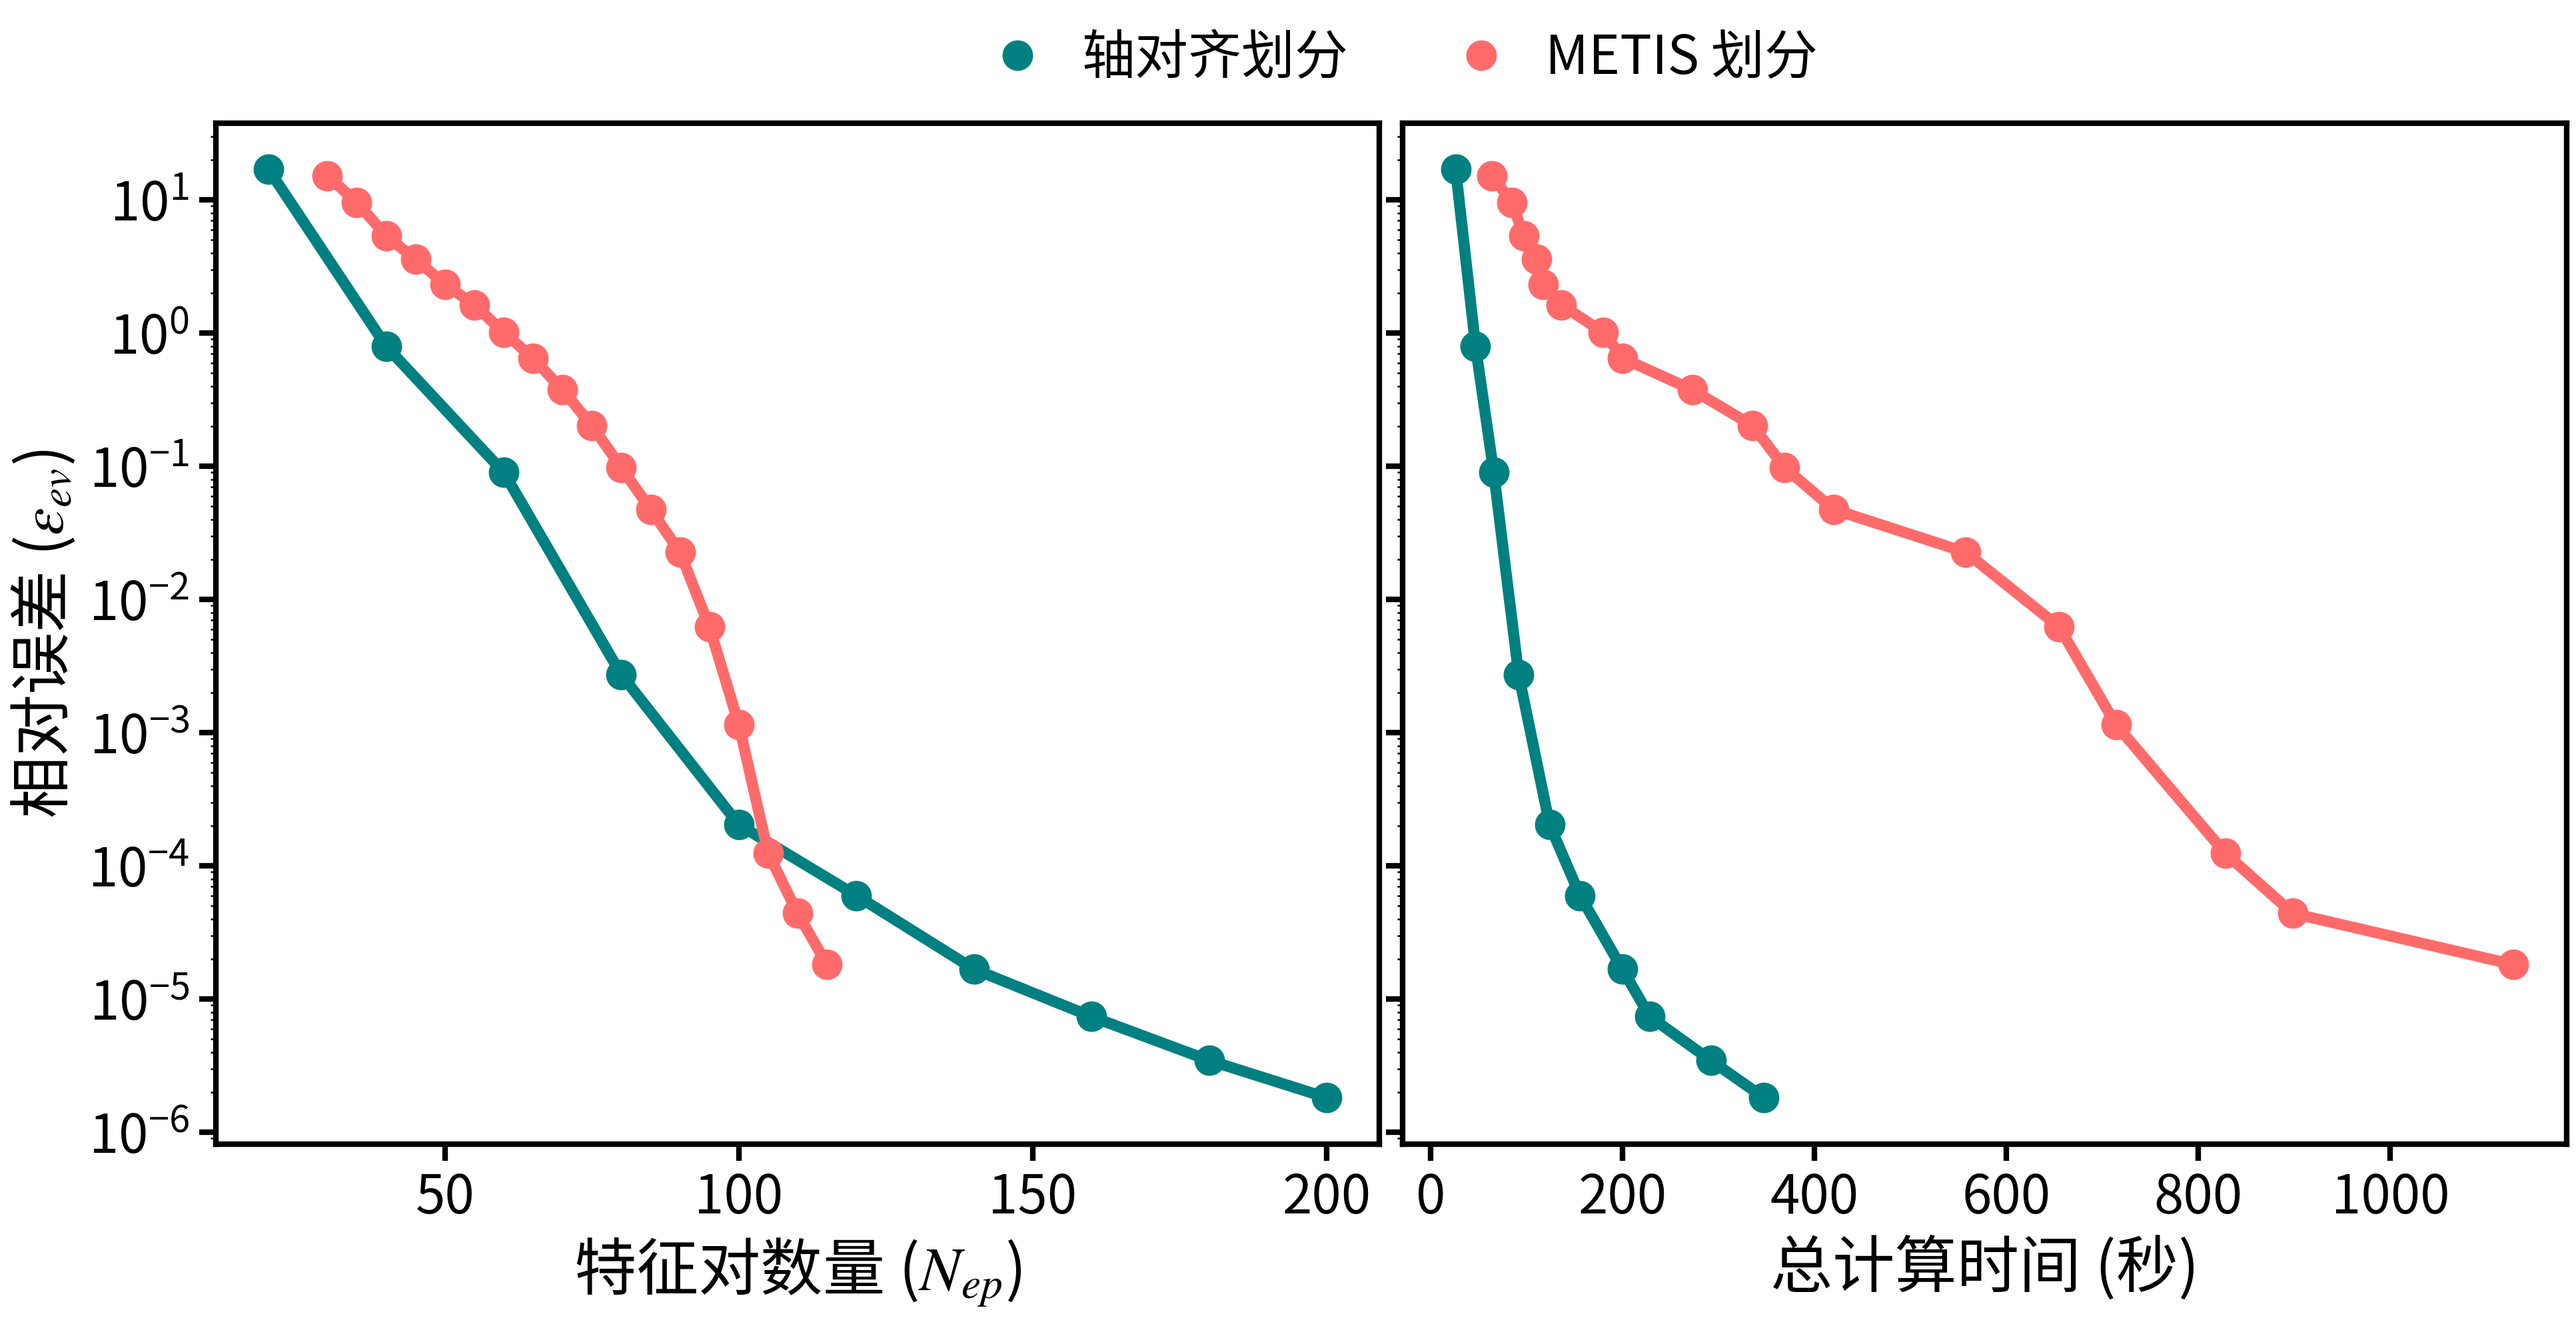
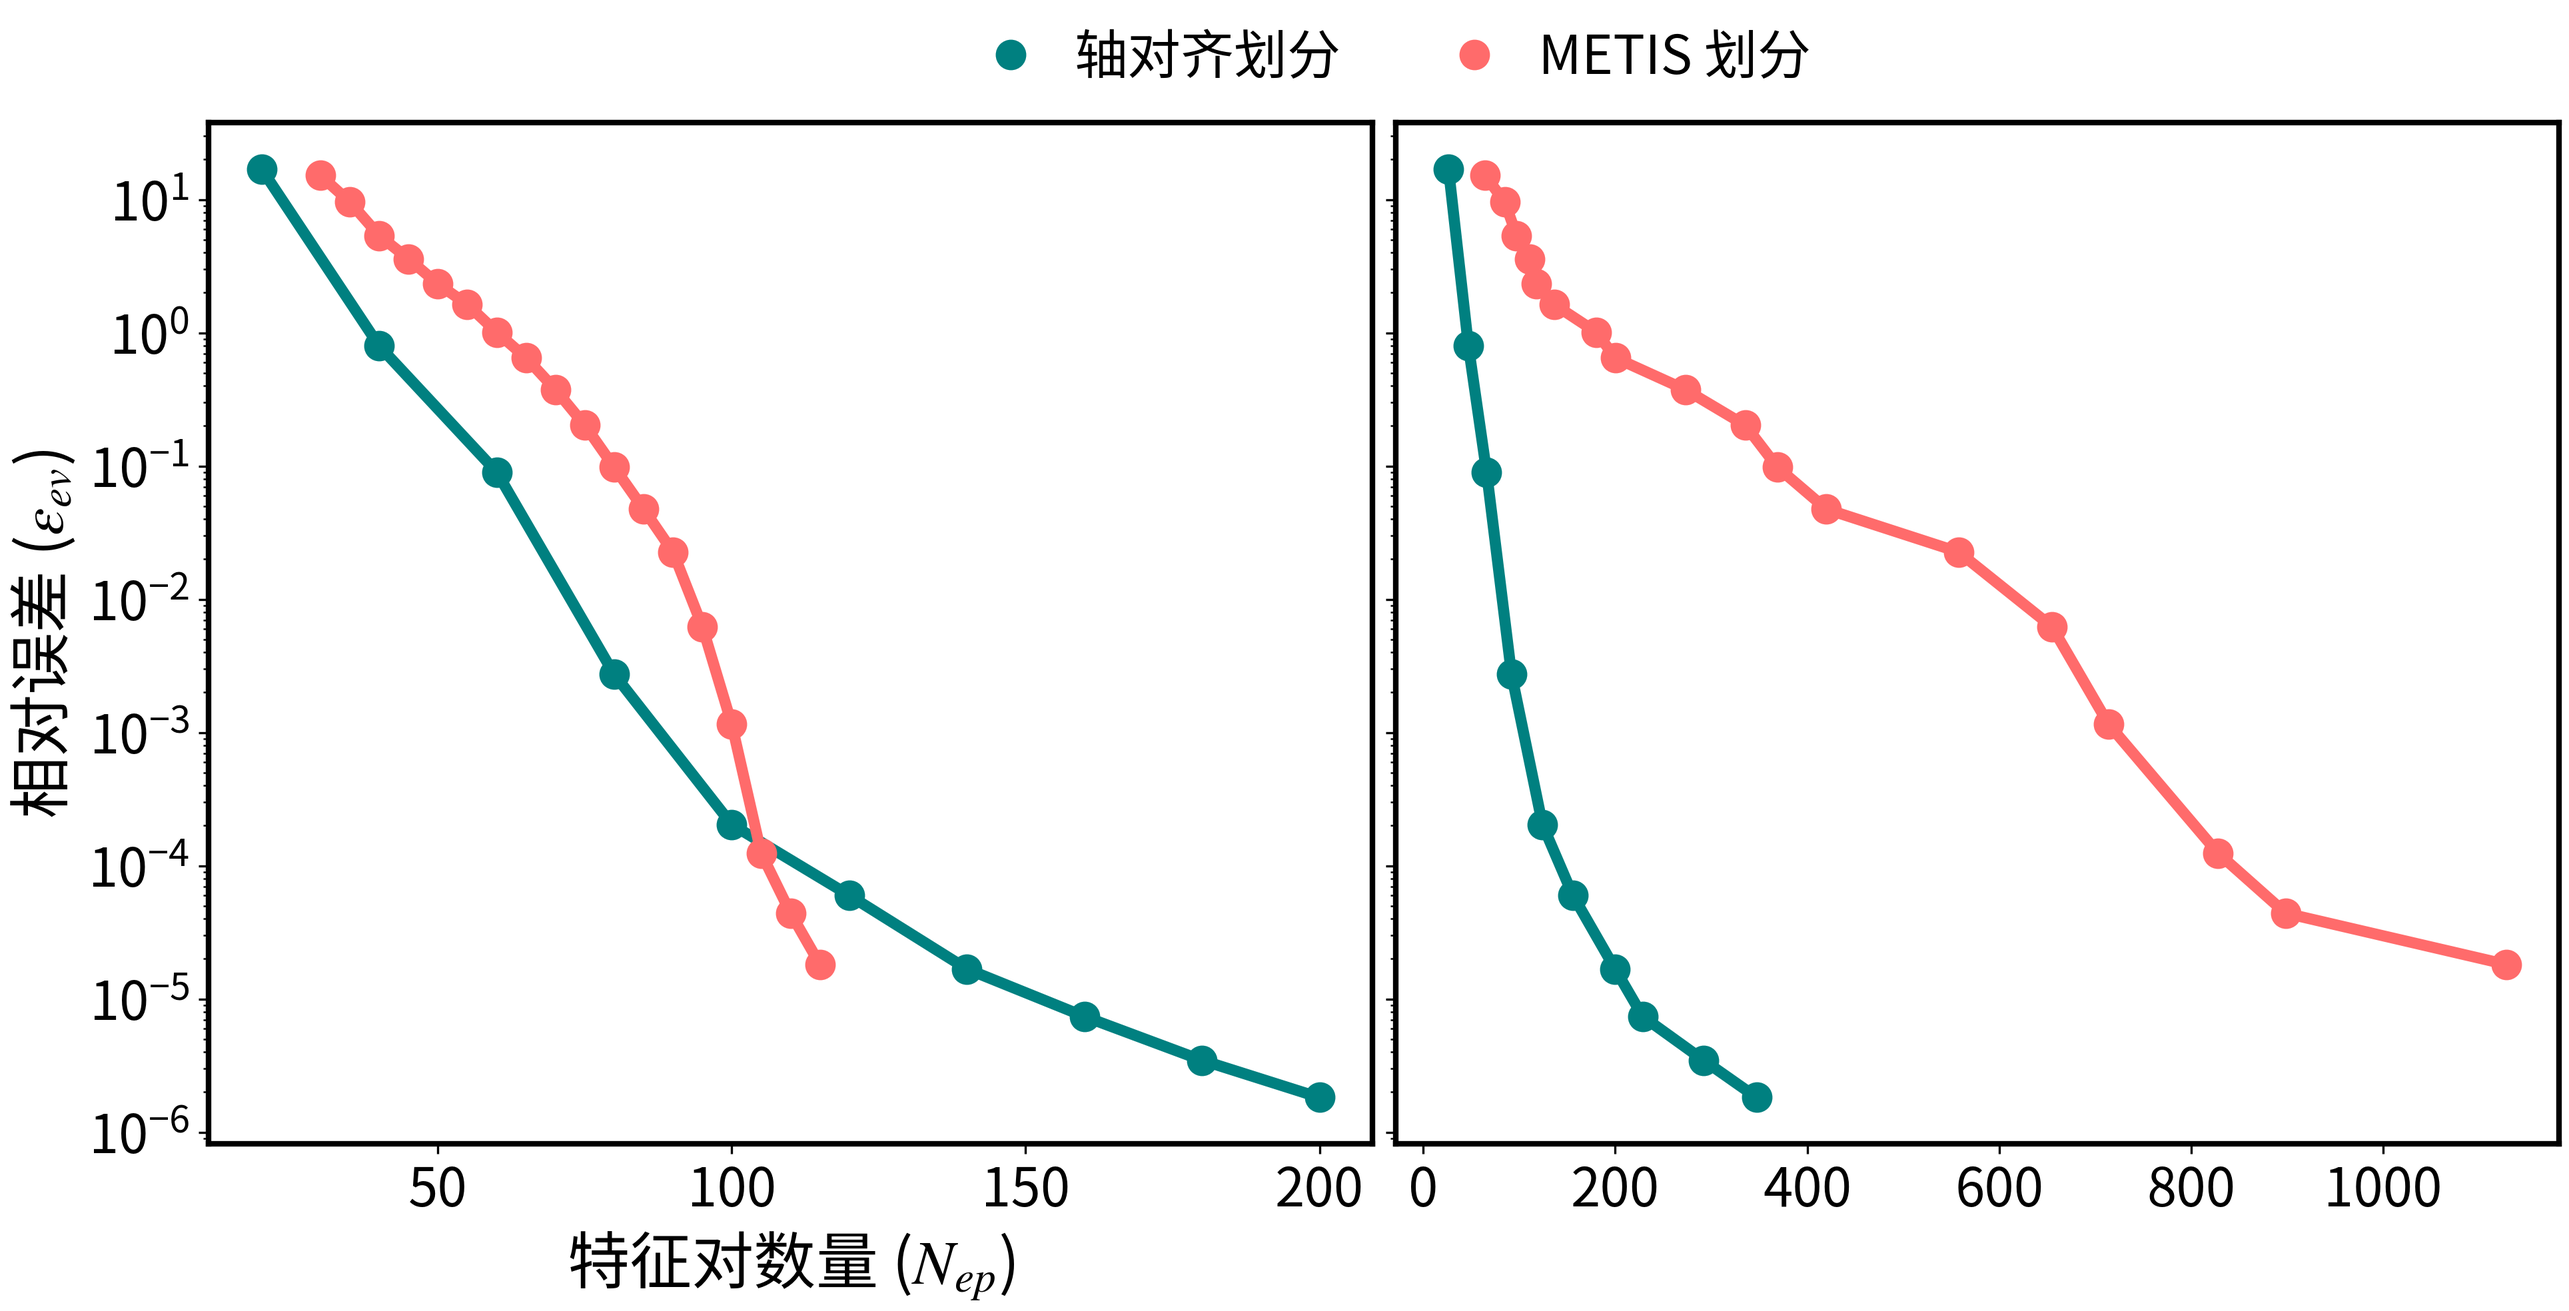
fix(paper3): use LogFormatterMathtext for log-scale tick labels
The configure_chinese_font() function sets font.family to a CJK font
(Source Han Sans CN), which does not contain Unicode superscript
characters needed for log-scale tick labels (10^-6, 10^-5, ...).

Fix: add LogFormatterMathtext to all set_yscale('log') axes in
both generate_aa_vs_metis_cn.py and generate_dragon_tet_cn.py.
Mathtext rendering uses matplotlib's built-in stix math font,
independent of the CJK font family setting.

Ultraworked with [Sisyphus](https://github.com/code-yeongyu/oh-my-openagent)

diff --git a/script/paper3_figures/dragon_tet/generate_dragon_tet_cn.py b/script/paper3_figures/dragon_tet/generate_dragon_tet_cn.py
@@ -14,6 +14,7 @@ import pandas as pd
 import numpy as np
 import matplotlib.pyplot as plt
 from matplotlib import font_manager
+from matplotlib.ticker import LogFormatterMathtext
 
 THIS_DIR = os.path.dirname(os.path.abspath(__file__))
 REPO_ROOT = os.path.dirname(os.path.dirname(os.path.dirname(THIS_DIR)))
@@ -163,7 +164,7 @@ def plot_performance(df):
     ax1.set_xlabel(r"特征对数量 ($N_{ep}$)", fontsize=LABEL_FONTSIZE)
     ax1.set_ylabel(r"相对误差 ($\epsilon_{ev}$)", fontsize=LABEL_FONTSIZE)
     ax1.set_yscale("log")
-    ax1.tick_params(axis="both", which="major", labelsize=TICK_FONTSIZE, width=2, length=6)
+    ax1.yaxis.set_major_formatter(LogFormatterMathtext())
 
     # --- Right: Error vs Total Time ---
     for np_val in np_vals:
@@ -182,7 +183,7 @@ def plot_performance(df):
     ax2.set_xlabel("总计算时间 (秒)", fontsize=LABEL_FONTSIZE)
     ax2.set_ylabel(r"相对误差 ($\epsilon_{ev}$)", fontsize=LABEL_FONTSIZE)
     ax2.set_yscale("log")
-    ax2.tick_params(axis="both", which="major", labelsize=TICK_FONTSIZE, width=2, length=6)
+    ax2.yaxis.set_major_formatter(LogFormatterMathtext())
 
     # Shared legend on top
     handles, labels = ax2.get_legend_handles_labels()

diff --git a/script/paper3_figures/aa_vs_metis/generate_aa_vs_metis_cn.py b/script/paper3_figures/aa_vs_metis/generate_aa_vs_metis_cn.py
@@ -5,6 +5,7 @@ import pandas as pd
 import matplotlib.pyplot as plt
 from matplotlib import font_manager
 from matplotlib.lines import Line2D
+from matplotlib.ticker import LogFormatterMathtext
 
 THIS_DIR = os.path.dirname(os.path.abspath(__file__))
 REPO_ROOT = os.path.dirname(os.path.dirname(os.path.dirname(THIS_DIR)))
@@ -96,11 +97,10 @@ def main():
     ax1.set_xlabel(r"特征对数量 ($N_{ep}$)", fontsize=LABEL_FONTSIZE)
     ax1.set_ylabel(r"相对误差 ($\epsilon_{ev}$)", fontsize=LABEL_FONTSIZE)
     ax1.set_yscale("log")
-    ax1.tick_params(axis="both", which="major", labelsize=TICK_FONTSIZE, width=2, length=6)
+    ax1.yaxis.set_major_formatter(LogFormatterMathtext())
 
-    ax2.set_xlabel("总计算时间 (秒)", fontsize=LABEL_FONTSIZE)
     ax2.set_yscale("log")
-    ax2.tick_params(axis="both", which="major", labelsize=TICK_FONTSIZE, width=2, length=6)
+    ax2.yaxis.set_major_formatter(LogFormatterMathtext())
 
     legend_handles = [
         Line2D([0], [0], color=PARTITION_COLORS[k], marker="o", linestyle="None", markersize=MARKER_SIZE, label={"AA": "轴对齐划分", "METIS": "METIS 划分"}[k])
